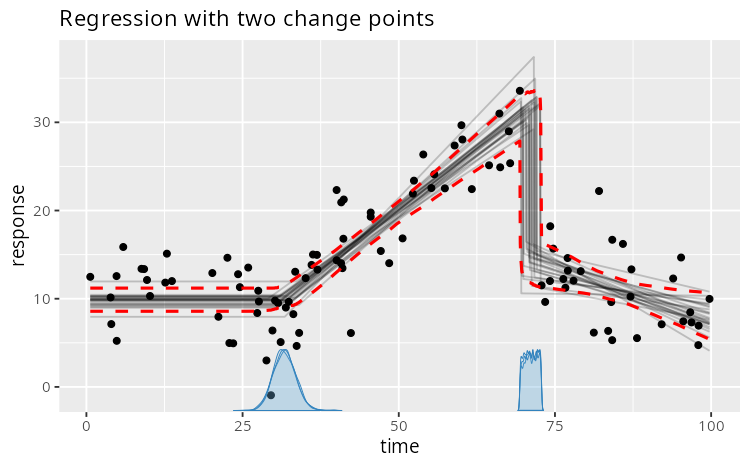
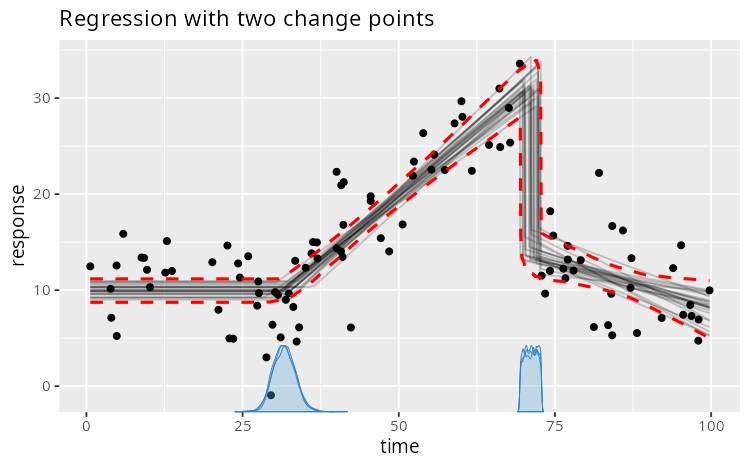
DOC document()

diff --git a/README.md b/README.md
@@ -145,17 +145,17 @@ summary(fit)
     ##   3: ~ 1 + time
     ## 
     ## Change point parameters:
-    ##    parameter  mean    sd lower  upper rhat ess_bulk ess_tail  sim match
-    ##  cp_1        31.67 1.789 28.37 35.278 1.00     3301     4250 30.0    OK
-    ##  cp_2        71.15 0.995 69.47 72.782 1.00     3649     6590 70.0    OK
+    ##    parameter   mean    sd  lower  upper rhat ess_bulk ess_tail    sim match
+    ##  cp_1        31.7   1.8   28.4   35.3   1.00     3301     4250 30.0      OK
+    ##  cp_2        71.15  0.99  69.47  72.78  1.00     3649     6590 70.00     OK
     ## 
     ## Population-level parameters:
-    ##    parameter  mean    sd lower  upper rhat ess_bulk ess_tail  sim match
-    ##  Intercept_1  9.94 0.662  8.62 11.217 1.00     4835     6307 10.0    OK
-    ##  time_2       0.55 0.047  0.46  0.642 1.00     5165     6622  0.5    OK
-    ##  Intercept_3 13.95 1.334 11.36 16.574 1.00     2306     4675 15.0    OK
-    ##  time_3      -0.21 0.082 -0.37 -0.045 1.00     1287     2440 -0.3    OK
-    ##  sigma_1      3.87 0.279  3.36  4.463 1.00     4455     4623  3.5    OK
+    ##    parameter   mean    sd  lower  upper rhat ess_bulk ess_tail    sim match
+    ##  Intercept_1  9.94  0.66   8.62  11.22  1.00     4835     6307 10.00     OK
+    ##  time_2       0.546 0.047  0.456  0.642 1.00     5165     6622  0.500    OK
+    ##  Intercept_3 14.0   1.3   11.4   16.6   1.00     2306     4675 15.0      OK
+    ##  time_3      -0.206 0.082 -0.366 -0.045 1.00     1287     2440 -0.300    OK
+    ##  sigma_1      3.87  0.28   3.36   4.46  1.00     4455     4623  3.50     OK
 
 - `rhat` is the rank-normalized split-Rhat convergence diagnostic.
 - `ess_bulk` and `ess_tail` are the effective sample sizes for the bulk
@@ -301,7 +301,7 @@ effects](https://lindeloev.github.io/mcp/articles/group_effects.html):
 
 - Model group-level intercepts, slopes, and change points using
   `(1|id)`, `(0 + x||id)`, or `cp((1|id))`. Get posteriors using
-  `ranef(fit)`.
+  `ranef(fit)` for deviations or `coef(fit)` for group-specific values.
 
 - Plot using `plot(fit, facet_by = "my_group")` and
   `plot_pars(fit, pars = "group", type = "dens_overlay", ncol = 3)`.
@@ -378,8 +378,7 @@ intervals](https://lindeloev.github.io/mcp/articles/predict.html):
 [Missing responses and posterior
 imputation](https://lindeloev.github.io/mcp/articles/missing.html):
 
-- Missing responses are sampled in JAGS and retained with their matching
-  posterior draws.
+- Missing responses are imputed jointly with the parameters.
 
 - Use `fitted(fit) |> filter(is.na(y))` for expected responses and
   `predict(fit) |> filter(is.na(y))` for posterior imputations.
